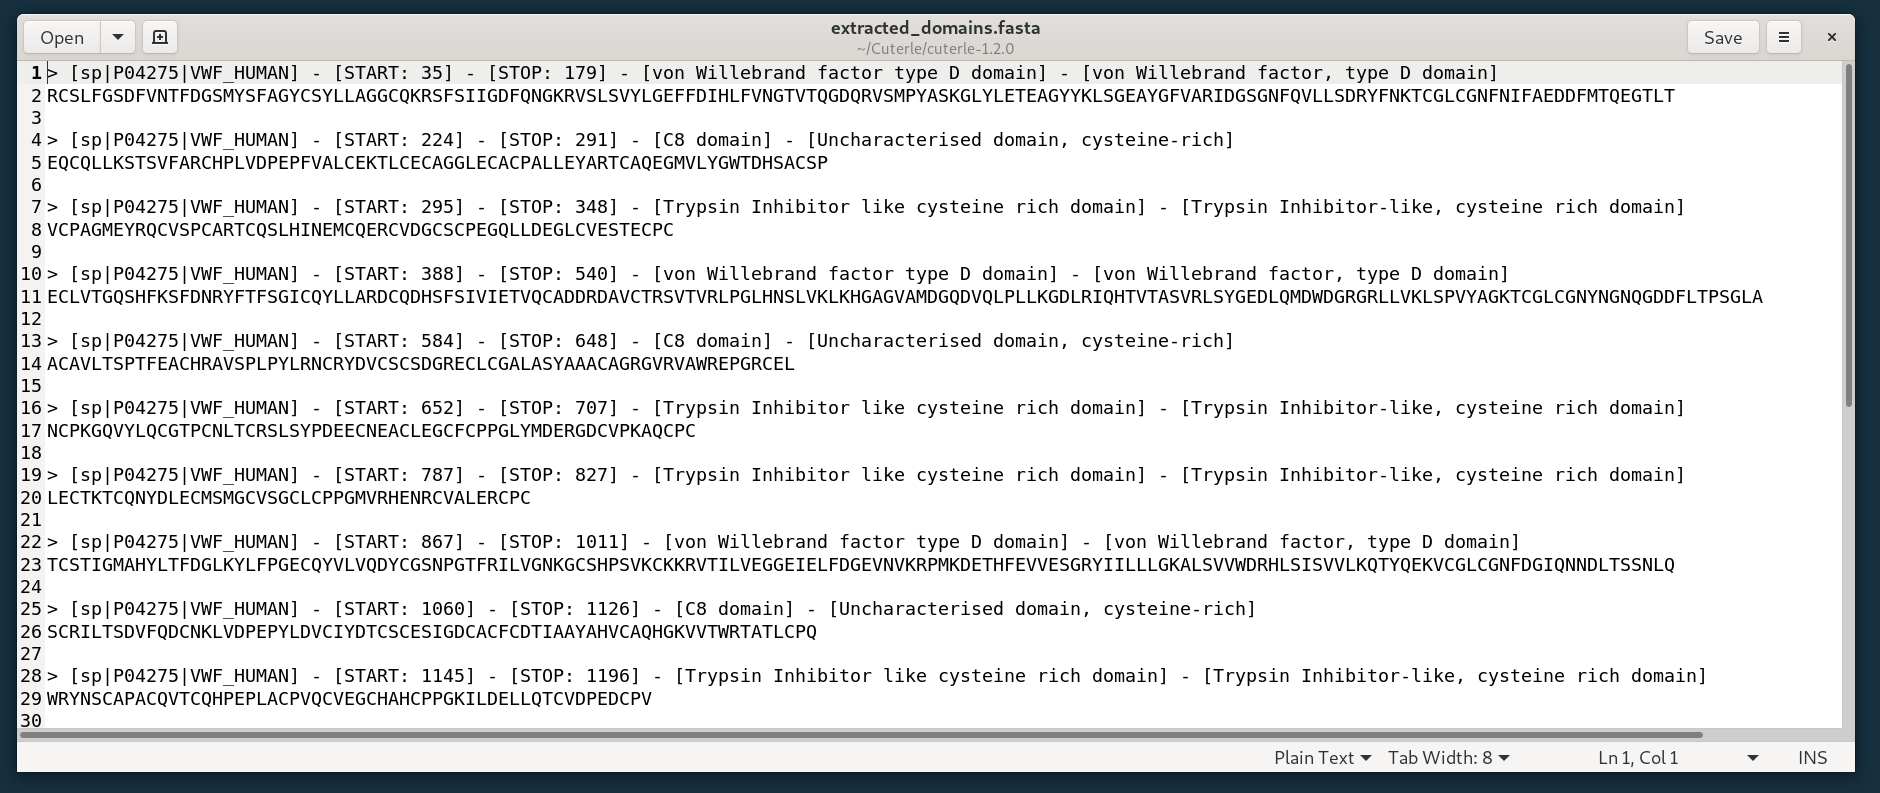
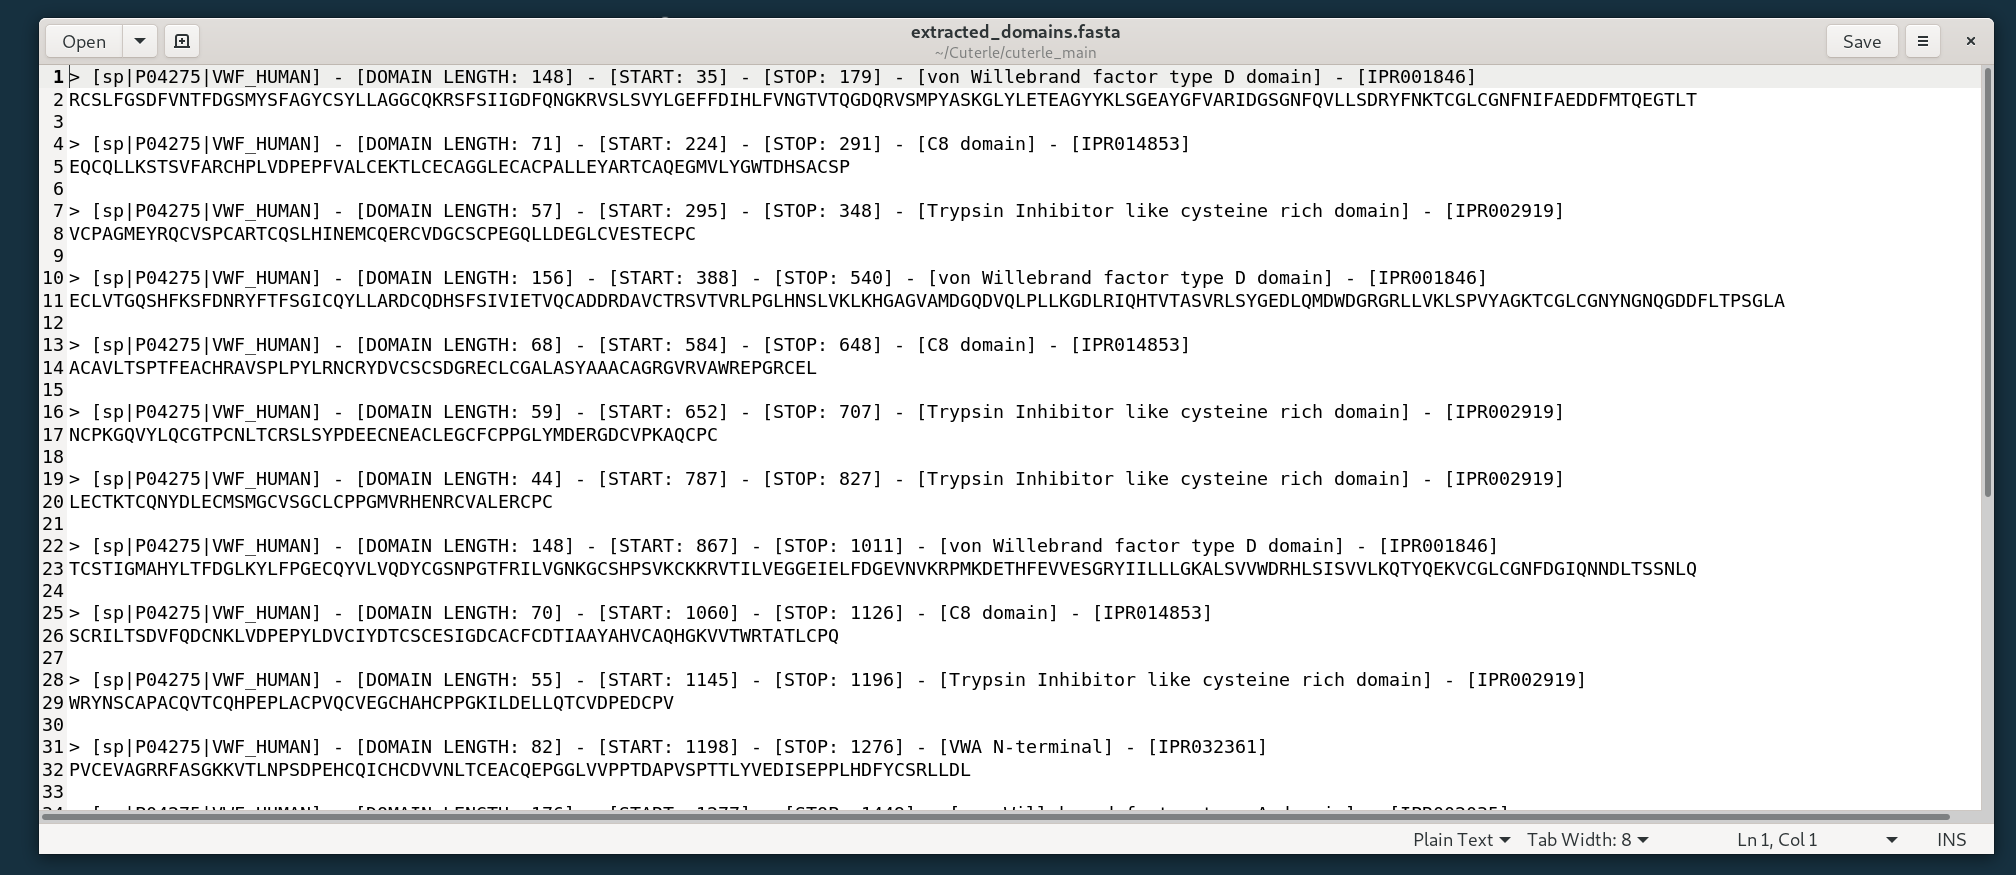
Screenshot, main.py and README.md updated

Changed region(s): [[0.0, 0.0, 1.0, 0.9685], [0.833, 0.5145, 0.8947, 0.5448]]

diff --git a/main.py b/main.py
@@ -370,15 +370,15 @@ for er in range(0, number_of_result_of_analysis):
 
         # ----> Renaming the sequence following the input
         if name_format is None:
-            name_format = "1,6,2,3,4,5"
+            name_format = "1,2,3,4,5,6"
 
         name_format_dict = {
             "1": prot_accession,
-            "2": start_location,
-            "3": stop_location,
-            "4": signature_description,
-            "5": interpro_annotation,
-            "6": domain_lenght,
+            "2": domain_lenght,
+            "3": start_location,
+            "4": stop_location,
+            "5": signature_description,
+            "6": interpro_accession,
         }
 
         name_format_choosen = name_format.split(",")

diff --git a/README.md b/README.md
@@ -94,8 +94,8 @@ NAME FORMAT
         2 - Length of the domain (e.g. [DOMAIN LENGHT: (150)])
         3 - Start location of the domain (e.g. [START: 50])
         4 - End location of the domain (e.g. [END: 200])
-        5 - InterPro accession (e.g. [IPR002035])
-        6 - InterPro annotations - description (e.g. [BRCA2 repeat])
+        5 - InterPro annotations - description (e.g. [BRCA2 repeat])
+        6 - InterPro accession (e.g. [IPR002035])
 
     It is possible to CHANGE the order for every tag;
         e.g. [-nf 1] or [-nf 1,2,3,4] or [-nf 5,4,3,2,6,2,2,1]
@@ -161,8 +161,8 @@ Where every {number} refer to the follow information:
 - {2} - Length of the domain (e.g. [DOMAIN LENGHT: (150)])
 - {3} - Start location of the domain (e.g. [START: 50])
 - {4} - End location of the domain (e.g. [END: 200])
-- {5} - Signature accession (e.g. [IPR002035])
-- {6} - InterPro annotations - description (e.g. [BRCA2 repeat])
+- {5} - InterPro annotations - description (e.g. [BRCA2 repeat])
+- {6} - Signature accession (e.g. [IPR002035])
 
 It's possible to change the syntax only by running the manual mode (or manual editing the code).
 
